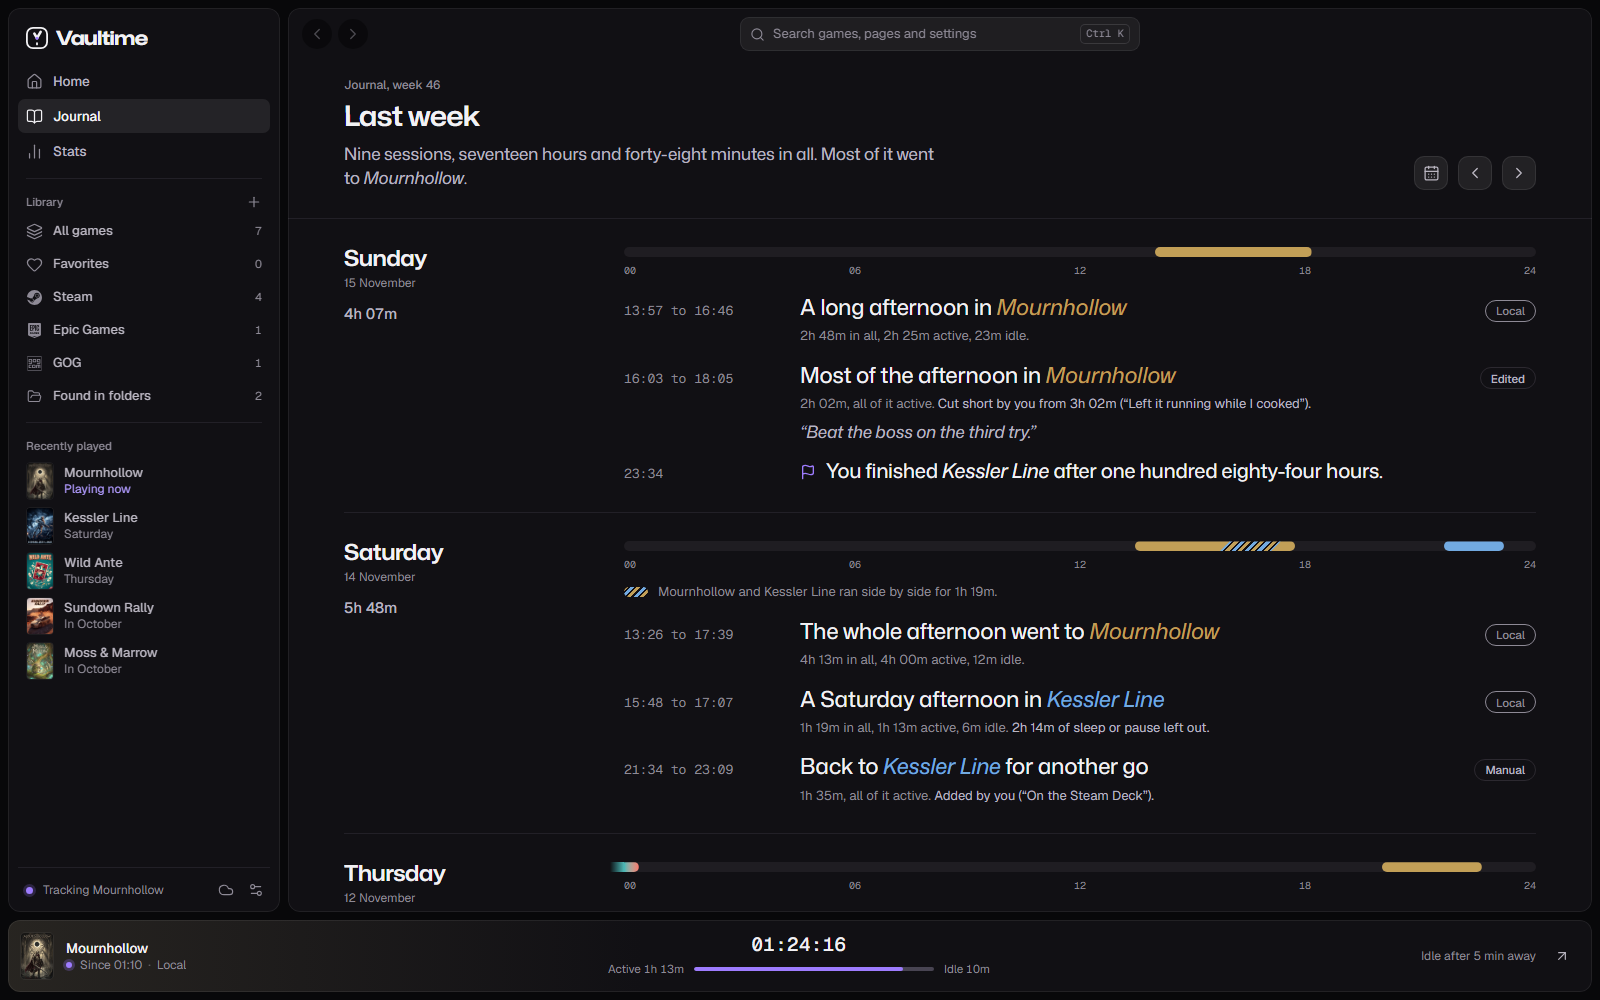
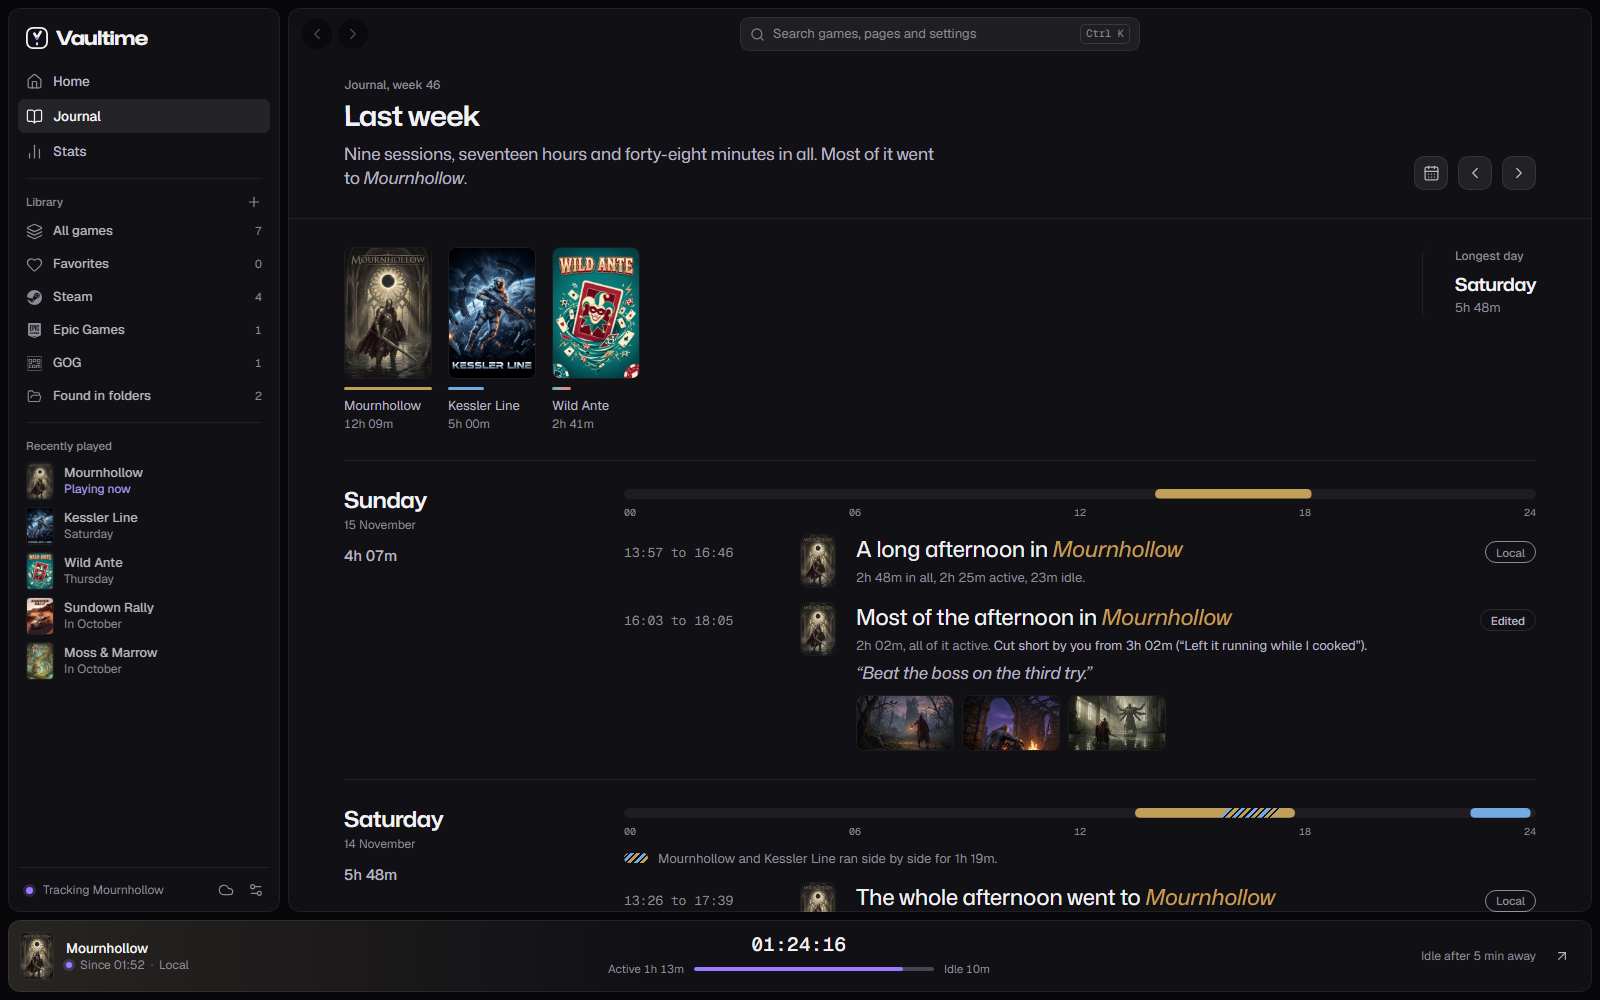
assets/screenshots: show the journal with covers and steam screenshots
The README and the site now name the covers and screenshots in the journal.

diff --git a/docs/site/index.html b/docs/site/index.html
@@ -132,7 +132,7 @@
         </div>
         <div>
           <div class="row"><div><h3>Home in the colors of your game</h3><p>Leads with the game you play now or last, tinted from its cover, with your week in numbers and the games to continue.</p></div></div>
-          <div class="row"><div><h3>A journal of your play</h3><p>Week by week, a 24 hour strip for each day and every session written as a sentence. It notes when a game passes ten, a hundred or a thousand hours.</p></div></div>
+          <div class="row"><div><h3>A journal of your play</h3><p>Week by week, a 24 hour strip for each day and every session written as a sentence beside its cover, with the screenshots you took in Steam. It notes when a game passes ten, a hundred or a thousand hours.</p></div></div>
           <div class="row"><div><h3>Your year in games</h3><p>Your year told in chapters, one card at a time: your game of the year, your longest session, the week you played most and the games you finished. Made on your PC, ready to share as a picture.</p></div></div>
           <div class="row"><div><h3>Always in view</h3><p>A live bar shows the running game and its timer, and Ctrl+K jumps to any game or page.</p></div></div>
           <div class="row"><div><h3>Every launcher in one library</h3><p>Steam, Xbox, Epic, GOG, EA, Ubisoft, Battle.net, Riot, Rockstar, Amazon, itch.io and more, each with its own page and hours, plus common game folders on every drive and any game by hand.</p></div></div>

diff --git a/README.md b/README.md
@@ -33,7 +33,7 @@ Vaultime notices when a game starts, from any launcher, and keeps the time it wa
 - **Automatic tracking.** Add a game once, then start it however you like. No launcher integration needed.
 - **Real playtime.** Runtime, active and idle time counted apart. Sleep never counts.
 - **Finds your games.** Steam, Xbox, Epic, GOG, EA, Ubisoft, Battle.net, Riot, Heroic, Lutris and more, new installs at every start, or any game by hand. A game you own in two launchers can count as one.
-- **A journal of your play.** Every session written as a sentence, week by week.
+- **A journal of your play.** Every session written as a sentence beside its cover, week by week, with the screenshots you took in Steam.
 - **Stats for every year.** A calendar of every day, the hours you play and your games month by month, and a picture of your year to share.
 - **Your artwork, your look.** Covers from your own game folders, framed the way you like, and any accent color.
 - **Honest trust labels.** Clock jumps, crashes and edits made outside Vaultime show up instead of hiding in a total.

diff --git a/docs/site/docs/journal-and-stats.md b/docs/site/docs/journal-and-stats.md
@@ -2,7 +2,7 @@
 
 The journal tells your play week by week in plain sentences. The stats page looks at a whole year at once.
 
-![The journal with a week of sessions written as sentences](../../../assets/screenshots/journal.png "The journal: a 24 hour strip for every day and every session as a sentence.")
+![The journal with a week of sessions written as sentences](../../../assets/screenshots/journal.png "The journal: the week's games, a 24 hour strip for every day and every session as a sentence beside its cover.")
 
 ## The journal
 
